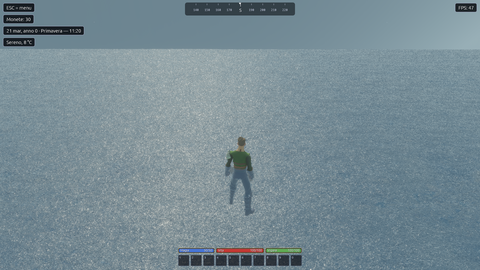
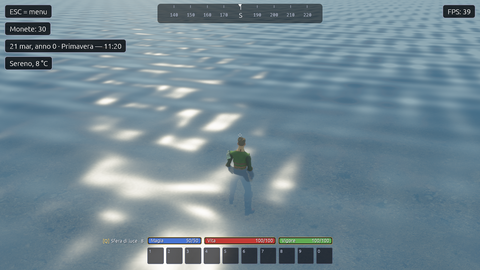
fix(sea): distance-faded opaque sea and sun/moon clipped at the sea horizon
First custom shader (assets/shaders/distance_fade.wesl, ExtendedMaterial on
StandardMaterial): the sea turns opaque 4-14 m from the camera, sun and moon
discs are discarded below the visible sea horizon. The sea no longer loads
prepass normals (Bevy loads them for transparent meshes too), which lit the far
sea with the seabed normals and drew a light band to the horizon. Wave tile 8 m.
TerrainField keeps the open-sea mask (in_sea). Beta v0.0.63 #22, ADR 0061.

diff --git a/src/terrain.rs b/src/terrain.rs
@@ -18,8 +18,11 @@ use avian3d::prelude::*;
 use bevy::asset::AssetEvent;
 use bevy::image::Image;
 use bevy::math::{UVec3, Vec2};
+use bevy::pbr::{ExtendedMaterial, MaterialExtension};
 use bevy::prelude::*;
 use bevy::render::mesh::{Indices, PrimitiveTopology, VertexAttributeValues};
+use bevy::render::render_resource::AsBindGroup;
+use bevy::shader::ShaderRef;
 
 /// Estensione del terreno sul piano XZ (m): il piano è centrato in origine.
 /// È un'isola: il quadrato centrale di `HEIGHTMAP_SIZE` m usa la heightmap, il
@@ -43,6 +46,70 @@ const HEIGHT_SCALE: f32 = 4.0;
 const GRASS_TILE_M: f32 = 4.0;
 /// Segno della bitangente per la griglia del terreno (V cresce verso +Z).
 const TANGENT_W: f32 = 1.0;
+
+/// Materiale standard con l'alfa che dipende dalla distanza dalla camera (ADR 0061): il mare
+/// lascia vedere il fondale solo vicino, i dischi di sole e luna spariscono sotto l'orizzonte.
+pub type FadeMaterial = ExtendedMaterial<StandardMaterial, DistanceFade>;
+
+/// Parametri dello shader `assets/shaders/distance_fade.wesl`.
+#[derive(Asset, AsBindGroup, Reflect, Debug, Clone, Default)]
+pub struct DistanceFade {
+    /// Mare: (inizio, opaco, -, 0) in metri; dischi: (quota del mare, bordo del mare, -, 1).
+    #[uniform(100)]
+    pub params: Vec4,
+}
+
+impl MaterialExtension for DistanceFade {
+    fn fragment_shader() -> ShaderRef {
+        "shaders/distance_fade.wesl".into()
+    }
+
+    /// Niente normali dal prepass: Bevy le fa leggere anche ai materiali trasparenti, e il mare
+    /// prendeva quelle del fondale che ha sotto (oltre l'isola, dove sotto non c'è nulla, una
+    /// normale verso il basso): era la fascia chiara del mare lontano (beta v0.0.63, n. 22).
+    fn specialize(
+        _pipeline: &bevy::pbr::MaterialExtensionPipeline,
+        descriptor: &mut bevy::render::render_resource::RenderPipelineDescriptor,
+        _layout: &bevy::mesh::MeshVertexBufferLayoutRef,
+        _key: bevy::pbr::MaterialExtensionKey<Self>,
+    ) -> Result<(), bevy::render::render_resource::SpecializedMeshPipelineError> {
+        if let Some(fragment) = descriptor.fragment.as_mut() {
+            fragment
+                .shader_defs
+                .retain(|d| d != &bevy::shader::ShaderDefVal::from("LOAD_PREPASS_NORMALS"));
+        }
+        Ok(())
+    }
+}
+
+/// Il mare è trasparente fino a `SEA_CLEAR_M` metri dalla camera e opaco da `SEA_OPAQUE_M`:
+/// la camera sta qualche metro dietro al giocatore, quindi il fondale si vede fino a una
+/// decina di metri da lui.
+pub const SEA_CLEAR_M: f32 = 4.0;
+/// Lato (m) di una piastrella delle onde sul mare.
+const SEA_WAVE_TILE_M: f32 = 8.0;
+pub const SEA_OPAQUE_M: f32 = 14.0;
+
+impl DistanceFade {
+    /// Il mare: l'alfa del materiale vicino, opaco lontano.
+    pub fn sea() -> Self {
+        Self {
+            params: Vec4::new(SEA_CLEAR_M, SEA_OPAQUE_M, 0.0, 0.0),
+        }
+    }
+
+    /// Sole e luna: tagliati all'orizzonte del mare, che si vede fino a `edge` metri.
+    pub fn horizon(edge: f32) -> Self {
+        Self {
+            params: Vec4::new(SEA_LEVEL, edge, 0.0, 1.0),
+        }
+    }
+}
+
+/// Registra il materiale del mare e dei dischi.
+pub fn plugin(app: &mut App) {
+    app.add_plugins(MaterialPlugin::<FadeMaterial>::default());
+}
 
 /// Asset e stato del terreno.
 #[derive(Resource)]
@@ -98,6 +165,9 @@ pub struct TerrainField {
     shore: Vec<Vec2>,
     /// Vertici coperti da ruscello e laghetto.
     wet: Vec<bool>,
+    /// Vertici di mare aperto (collegati al bordo, sotto `SEA_LEVEL`): una conca nell'entroterra
+    /// più bassa del mare resta terra.
+    sea: Vec<bool>,
     /// Materiale del suolo per vertice.
     surface: Vec<Surface>,
     /// Punti radi di ruscello e laghetto, per la distanza dall'acqua.
@@ -173,6 +243,14 @@ impl TerrainField {
     /// Distanza (m) da ruscello e laghetto.
     pub fn distance_to_fresh_water(&self, p: Vec2) -> f32 {
         nearest(&self.wet_points, p)
+    }
+
+    /// Il punto (x, z) è sul mare aperto (vertice più vicino)? Fuori dalla griglia è mare.
+    pub fn in_sea(&self, x: f32, z: f32) -> bool {
+        let i = |w: f32| ((w + size() / 2.0) / step()).round() as isize;
+        let (ix, iz) = (i(x), i(z));
+        let n = self.n as isize;
+        !((0..n).contains(&ix) && (0..n).contains(&iz)) || self.sea[(iz * n + ix) as usize]
     }
 
     /// C'è acqua dolce in (x, z)?
@@ -255,6 +333,7 @@ pub fn update_terrain(
     mut assets: ResMut<TerrainAssets>,
     mut meshes: ResMut<Assets<Mesh>>,
     mut materials: ResMut<Assets<StandardMaterial>>,
+    mut fade_materials: ResMut<Assets<FadeMaterial>>,
     asset_server: Res<AssetServer>,
     mut events: MessageReader<AssetEvent<Image>>,
     terrains: Query<(Entity, &Mesh3d), With<TerrainMesh>>,
@@ -406,7 +485,12 @@ pub fn update_terrain(
                 Surface::Grass
             }
         })
-        .collect();
+        .collect::<Vec<Surface>>();
+    // Conche dell'entroterra sotto il livello del mare: terra, non mare (passi, beta v0.0.63 n. 26).
+    let hollows = (0..field.h.len())
+        .filter(|i| field.h[*i] < SEA_LEVEL && !ocean[*i])
+        .count();
+    info!("[TERRAIN] conche sotto il livello del mare (terra, non mare): {hollows} vertici");
     // Un punto ogni 2,5 m basta per sapere quanto è vicina l'acqua.
     let wet_points = (0..n)
         .step_by(5)
@@ -425,6 +509,7 @@ pub fn update_terrain(
         h: field.h.clone(),
         shore,
         wet: water.1,
+        sea: ocean.clone(),
         surface,
         wet_points,
         lake: water.0.lake,
@@ -517,16 +602,20 @@ pub fn update_terrain(
         TerrainExtra,
         crate::water::SeaSurface,
         Mesh3d(meshes.add(gpu(sea_mesh))),
-        MeshMaterial3d(materials.add(StandardMaterial {
-            base_color: Color::srgba(0.05, 0.22, 0.33, 0.86),
-            reflectance: 0.6,
-            alpha_mode: AlphaMode::Blend,
-            // Il mare si disegna dopo sabbia e strade (anche dall'alto, nella mappa).
-            depth_bias: 4.0,
-            perceptual_roughness: 0.2,
-            metallic: 0.0,
-            normal_map_texture: Some(waves.clone()),
-            ..Default::default()
+        // Vicino alla camera si vede il fondale; lontano il mare è opaco (ADR 0061).
+        MeshMaterial3d(fade_materials.add(FadeMaterial {
+            base: StandardMaterial {
+                base_color: Color::srgba(0.05, 0.22, 0.33, 0.86),
+                reflectance: 0.6,
+                alpha_mode: AlphaMode::Blend,
+                // Il mare si disegna dopo sabbia e strade (anche dall'alto, nella mappa).
+                depth_bias: 4.0,
+                perceptual_roughness: 0.2,
+                metallic: 0.0,
+                normal_map_texture: Some(waves.clone()),
+                ..Default::default()
+            },
+            extension: DistanceFade::sea(),
         })),
         Transform::from_xyz(0.0, SEA_LEVEL, 0.0),
         bevy::light::NotShadowCaster,
@@ -1450,8 +1539,13 @@ fn build_sea_mesh(field: &Field, ocean: &[bool]) -> Mesh {
         PrimitiveTopology::TriangleList,
         bevy::asset::RenderAssetUsages::default(),
     );
-    // UV in metri (una piastrella di onde ogni 16 m) e tangenti per la mappa delle normali.
-    let uv: Vec<[f32; 2]> = pos.iter().map(|p| [p[0] / 16.0, p[2] / 16.0]).collect();
+    // UV in metri (una piastrella di onde ogni `SEA_WAVE_TILE_M`) e tangenti per la mappa delle
+    // normali. Finché il mare prendeva le normali del fondale (ADR 0061) la piastrella da 16 m non
+    // si vedeva; con le onde vere da 16 m il sole faceva macchie larghe e sfocate.
+    let uv: Vec<[f32; 2]> = pos
+        .iter()
+        .map(|p| [p[0] / SEA_WAVE_TILE_M, p[2] / SEA_WAVE_TILE_M])
+        .collect();
     mesh.insert_attribute(Mesh::ATTRIBUTE_POSITION, pos);
     mesh.insert_attribute(Mesh::ATTRIBUTE_NORMAL, vec![[0.0, 1.0, 0.0]; count]);
     mesh.insert_attribute(Mesh::ATTRIBUTE_UV_0, uv);

diff --git a/src/daynight.rs b/src/daynight.rs
@@ -11,6 +11,8 @@ use bevy::prelude::*;
 pub const DAY_SECONDS: f32 = 24.0 * 60.0;
 /// Distanza (m) dei dischi di sole/luna dalla camera.
 const DISC_DISTANCE: f32 = 400.0;
+/// Fin dove si vede il mare: il piano lontano della camera (1000 m, quello di Bevy).
+const SEA_HORIZON_M: f32 = 1000.0;
 
 /// Giorni dei mesi (anno di 365 giorni, nessun bisestile).
 const MONTH_DAYS: [u8; 12] = [31, 28, 31, 30, 31, 30, 31, 31, 30, 31, 30, 31];
@@ -300,7 +302,7 @@ pub fn tick_clock(
 pub fn spawn_sky_discs(
     mut commands: Commands,
     mut meshes: ResMut<Assets<Mesh>>,
-    mut materials: ResMut<Assets<StandardMaterial>>,
+    mut materials: ResMut<Assets<crate::terrain::FadeMaterial>>,
 ) {
     let sphere = meshes.add(Sphere::new(1.0));
     for (is_sun, radius, color) in [
@@ -311,10 +313,16 @@ pub fn spawn_sky_discs(
             SkyDisc { is_sun },
             NotShadowCaster,
             Mesh3d(sphere.clone()),
-            MeshMaterial3d(materials.add(StandardMaterial {
-                base_color: color,
-                unlit: true,
-                ..default()
+            // Trasparenti (niente profondità scritta) e tagliati all'orizzonte del mare: al
+            // tramonto scendono dietro il mare invece di passargli davanti (ADR 0061).
+            MeshMaterial3d(materials.add(crate::terrain::FadeMaterial {
+                base: StandardMaterial {
+                    base_color: color,
+                    unlit: true,
+                    alpha_mode: AlphaMode::Blend,
+                    ..default()
+                },
+                extension: crate::terrain::DistanceFade::horizon(SEA_HORIZON_M),
             })),
             Transform::from_scale(Vec3::splat(radius)),
             Visibility::Hidden,

diff --git a/src/map.rs b/src/map.rs
@@ -421,11 +421,12 @@ pub struct SavedSea(Option<(Color, bool, AlphaMode, bool)>);
 /// OnEnter(Map): il mare diventa blu pieno e senza nebbia, altrimenti dall'alto si perde nel fondo.
 pub fn sea_on_map(
     mut saved: ResMut<SavedSea>,
-    mut materials: ResMut<Assets<StandardMaterial>>,
-    sea: Query<&MeshMaterial3d<StandardMaterial>, With<crate::water::SeaSurface>>,
+    mut materials: ResMut<Assets<crate::terrain::FadeMaterial>>,
+    sea: Query<&MeshMaterial3d<crate::terrain::FadeMaterial>, With<crate::water::SeaSurface>>,
 ) {
     for m in &sea {
-        if let Some(mut mat) = materials.get_mut(&m.0) {
+        if let Some(mut sea) = materials.get_mut(&m.0) {
+            let mat = &mut sea.base;
             saved.0 = Some((mat.base_color, mat.unlit, mat.alpha_mode, mat.fog_enabled));
             mat.base_color = Color::srgb(0.1, 0.34, 0.5);
             mat.unlit = true;
@@ -438,14 +439,15 @@ pub fn sea_on_map(
 /// OnExit(Map): rimette il mare com'era.
 pub fn sea_off_map(
     mut saved: ResMut<SavedSea>,
-    mut materials: ResMut<Assets<StandardMaterial>>,
-    sea: Query<&MeshMaterial3d<StandardMaterial>, With<crate::water::SeaSurface>>,
+    mut materials: ResMut<Assets<crate::terrain::FadeMaterial>>,
+    sea: Query<&MeshMaterial3d<crate::terrain::FadeMaterial>, With<crate::water::SeaSurface>>,
 ) {
     let Some((color, unlit, alpha, fog)) = saved.0.take() else {
         return;
     };
     for m in &sea {
-        if let Some(mut mat) = materials.get_mut(&m.0) {
+        if let Some(mut sea) = materials.get_mut(&m.0) {
+            let mat = &mut sea.base;
             mat.base_color = color;
             mat.unlit = unlit;
             mat.alpha_mode = alpha;

diff --git a/src/water.rs b/src/water.rs
@@ -562,7 +562,8 @@ pub fn animate_water(
     time: Res<Time>,
     settings: Res<crate::audio::AudioSettings>,
     mut materials: ResMut<Assets<StandardMaterial>>,
-    sea: Query<&MeshMaterial3d<StandardMaterial>, With<SeaSurface>>,
+    mut sea_materials: ResMut<Assets<crate::terrain::FadeMaterial>>,
+    sea: Query<&MeshMaterial3d<crate::terrain::FadeMaterial>, With<SeaSurface>>,
     stream: Query<&MeshMaterial3d<StandardMaterial>, With<StreamSurface>>,
     mut foam: Query<(&MeshMaterial3d<StandardMaterial>, &mut Visibility), With<ShoreFoam>>,
 ) {
@@ -589,7 +590,13 @@ pub fn animate_water(
         Affine2::IDENTITY
     };
     for m in &sea {
-        set_uv(&m.0, sea_uv);
+        if sea_materials
+            .get(&m.0)
+            .is_some_and(|m| m.base.uv_transform != sea_uv)
+            && let Some(mut mat) = sea_materials.get_mut(&m.0)
+        {
+            mat.base.uv_transform = sea_uv;
+        }
     }
     let offset = if on {
         Vec2::new(0.0, -t * 0.25)
